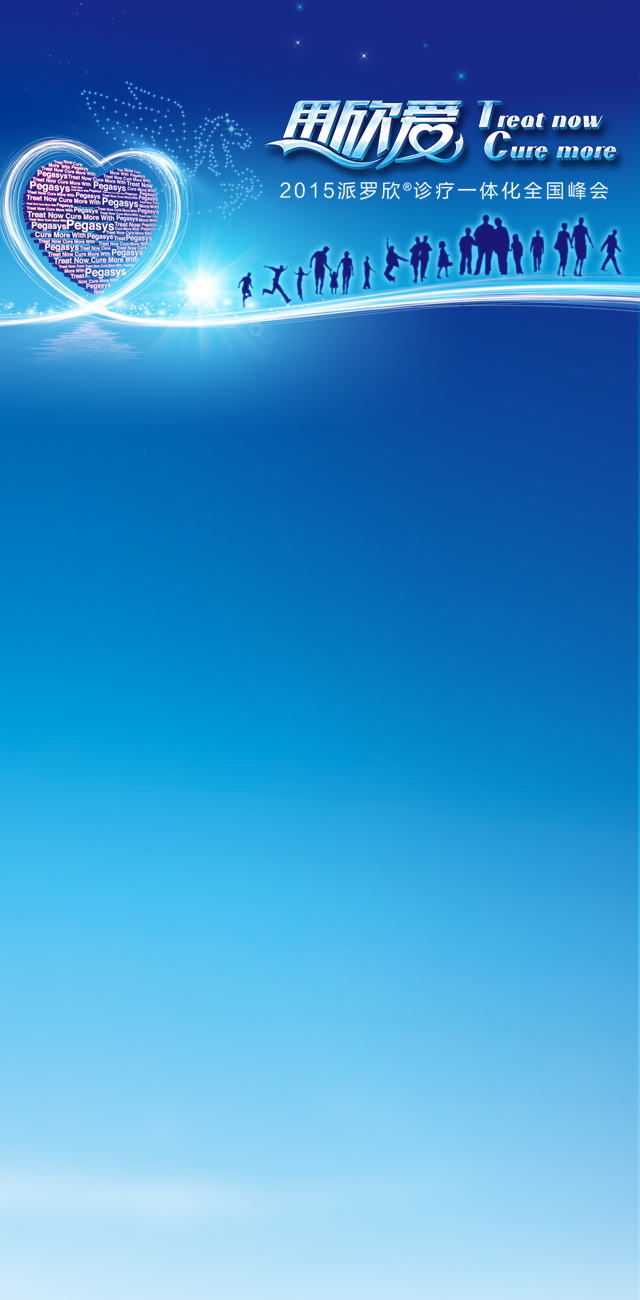
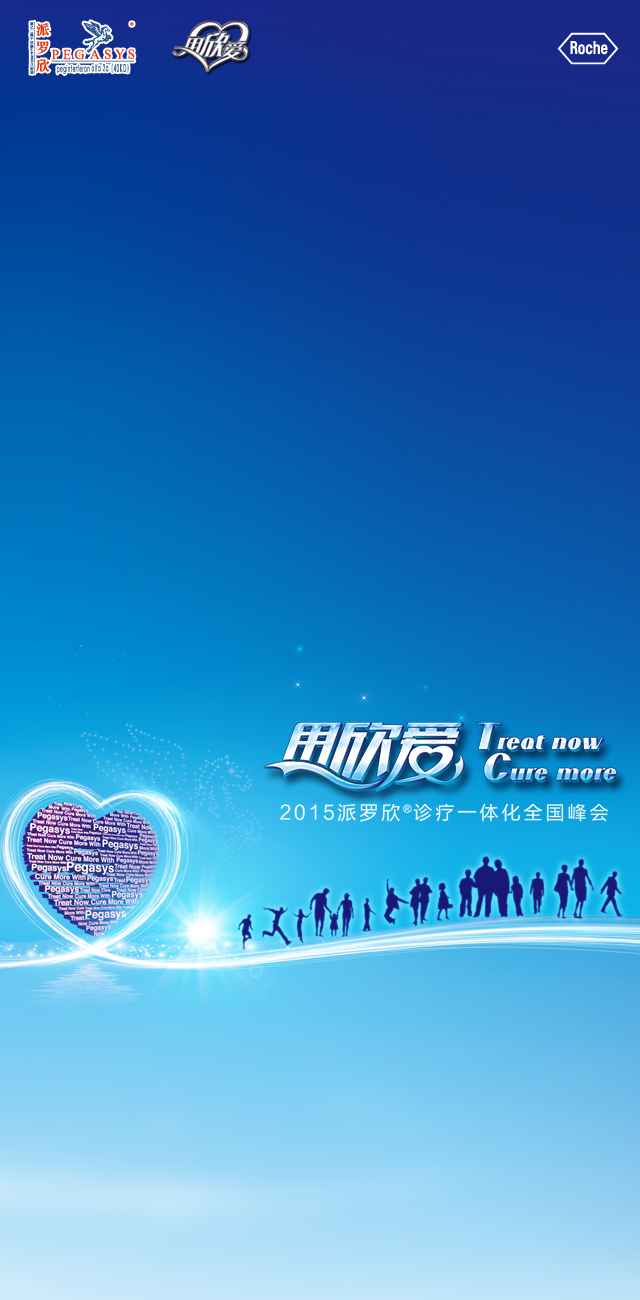
添加样式

diff --git a/app/assets/stylesheets/common.css.scss b/app/assets/stylesheets/common.css.scss
@@ -1,5 +1,3 @@
-@import "bootstrap-sprockets";
-@import "bootstrap";
 
 body { margin:0; padding:0; font-family:"微软雅黑"; }
 a {text-decoration: none;}
@@ -13,57 +11,49 @@ input { vertical-align:middle;}
 .Fleft{ float:left;}
 .Fright{ float:right;}
 
-
 /* 首页 */
-#BGw{ width:100%; background-image: image-url("indexBG.jpg"); height:900px;}
-.IndexA{ height:70px; width:100%; padding:10px; }
-.IndexA a{ height:70px; margin:0 10px; display:inline-block;}
-.IndexB{ width:100%; height:530px; margin:0 auto;}
+.bg-img{ width:100%; }
+.IndexA{ width:100%; position:relative; }
+.IndexB{ width:90%; height:50%; position:absolute; top:6%; left:5%;}
 .IndexB ul{ }
-.IndexB ul li{ height:220px; width:300px; float:left; margin-top:30px; text-align:center;}
-.IndexB ul li a{ height:220px; width:220px;}
+.IndexB ul li{ width:50%; float:left; margin-top:26px; text-align:center;}
+.IndexB ul li a img{ width:85%;}
 
 /* 欢迎词 */
-#Salutatory{ width:640px; background-image: image-url("salutatoryBG.png"); height:1300px;}
-.SalutatoryA{ height:940px; width:630px; background-image:image-url("login08.png"); margin:260px auto 0 auto; }
-.SalutatoryA p{ width:520px; margin:0 auto; padding-top:28px; color:#001870; font-size:27px; line-height:36x; }
+.SalutatoryB{ width: 100%; }
+.salu-bg { width: 100% }
 
 /* conference agenda */
-#div01{ width:640px; background-color:#f0f0f0; overflow:hidden;}
-.ConferenceT{ height:92px; width:100%; margin-bottom:12px; background:image-url("titlebg.png") repeat-x; font-size:37px; line-height:90px; text-align:center; color:#FFF;}
-.ConferenceF{ font-size:26px; line-height:130px; height:130px; width:210px; text-align:center; float:left;}
-.Orange26{ color:#fc5204;}
-.Blue26{ color:#6372b3;}
-.ConferenceG{ height:130px; width:430px; text-align:left; float:left; }
-.G1{ font-size:26px; color:#333333; line-height:70px;}
-.G2{ font-size:24px; color:#848484; line-height:60px;}
-.G3{ font-size:26px; color:#333333; line-height:130px;}
-.G4{ font-size:26px; color:#333333; line-height:43px;}
-.G5{ font-size:24px; color:#848484; line-height:43px;}
-.ConferenceH{ font-size:30px; height:90px; line-height:90px; width:640px; padding-left:16px; background-color:#f0f0f0; text-align:left; color:#c4c4c4;}
-.ConferenceH img{ margin:0 10px;}
+.agenda-bg { width: 100%; }
+#div01{ width:100%; background-color:#f0f0f0; overflow:hidden;}
+.ConferenceT{ width:100%; margin-bottom:8px; background-color:#006fbb; font-size:25px; text-align:center; color:#FFF; height:2em; line-height:2em;}
+.T-back{ width:22%; text-align:center; height:0%; }
+.T-back a{ font-size:19px; color:#cce3f2;}
 
 /* Topics */
-.ConferenceA{ height:130px; width:640px; border-bottom:1px solid #f0f0f0; background-color: #FFF; font-size:28px;}
+.ConferenceA{ height:80px; width:100%; border-bottom:1px solid #f0f0f0; background-color: #FFF; font-size:19px;}
 .ConferenceA span{ float:left;}
-.ConferenceB{ line-height:130px; color:#6372b3; width:120px; text-align:center;}
-.ConferenceC{ color:#333333; width:440px; text-align:left; line-height:130px; height:130px; }
-.ConferenceE{ color:#333333; width:440px; text-align:left; line-height:65px; height:130px; }
-.ConferenceD{ width:80px; text-align:center; height:50px; margin-top:40px; }
-.TopicsA{ height:440px; margin:20px auto; width:630px;}
-.TopicsB{ height:340px; width:598px; margin-left:29px; background-color:#ffffff; border:1px solid #dcdcdc;}
-.TopicsC{ height:320px; width:570px; background-image:image-url("TopM.png"); margin:10px 14px; cursor:pointer; }
-.TopicsC span{ line-height:80px; font-size:30px; color:#a9a9a9;}
-.TopicsD{ height:76px; width:286px; margin:40px auto;}
+.ConferenceB{ line-height:80px; color:#6372b3; width:16%; text-align:center;}
+.ConferenceC{ color:#333333; width:66%; text-align:left; line-height:40px;}
+.ConferenceE{ color:#333333; width:66%; text-align:left; line-height:26px;  }
+.ConferenceF{  color:#333333; width:66%; text-align:left; line-height:80px;  }
+.ConferenceD{ width:18%; text-align:center; height:40px; margin-top:14px; }
+.TopicsA{ height:320px; margin:20px auto; width:100%; background-color:#ffffff; border:1px solid #dcdcdc;}
+.TopicsA P{ font-size:24px; height:60px; line-height:60px; color:#666; text-align:center; width:100%; border-bottom:1px solid #dcdcdc;}
+.TopicsB{ height:240px; width:94%; margin:10px auto; background-color:#f4f4f4;}
+.TopicsB span{ line-height:60px; color:#a9a9a9; font-size:22px;}
+.TopicsC{ width:60%; margin:30px auto;}
+.TopicsC a img{ width:100%;}
 
 /* 专家简介 */
-.ExpertA{ height:170px; width:640px; margin-top:1px; background-color:#FFF; border-bottom:1px solid #f0f0f0;}
-.ExpertB{ height:122px; width:122px; position:relative; float:left; margin:24px 22px; }
-.ExpertC{ height:122px; width:122px; position:absolute; top:0; left:0; background-image:image-url("HeadT.png"); }
-.ExpertD{ height:170px; width:415px; float:left; margin-left:4px; }
-.ExpertE{ font-size:30px; color:#333; height:84px; line-height:84px; border-bottom:1px solid #f0f0f0; width:400px;}
-.ExpertE span{ font-size:26px; margin:0 15px;}
-.font25{ font-size:25px; color:#8e99c6;}
-.ExpertF{ font-size:26px; color:#9a9a9a; height:85px; line-height:85px; width:400px;}
-.ExpertG{ float:left; width:30px; margin-top:62px; margin-left:10px;}
+.ExpertA{ height:80px; width:100%; margin-top:1px; background-color:#FFF; border-bottom:1px solid #f0f0f0;}
+.ExpertB{ width:15%; float:left; margin:13px 10px; border-radius:10px; }
+.ExpertB img{ border-radius:10px; width:100%; border:1px solid #f0f0f0;}
+.ExpertD{ height:80px; width:65%; float:left; margin-left:4px; }
+.ExpertE{ font-size:20px; color:#333; height:40px; line-height:40px; border-bottom:1px solid #f0f0f0; }
+.ExpertE span{ font-size:16px; margin:0 2px; color:#8e99c6;}
+.ExpertF{ font-size:16px; color:#9a9a9a; height:40px; line-height:40px; overflow:hidden; white-space: nowrap;}
+.ExpertG{ float:left; margin-top:18px; margin-left:4px;}
 .ExpertG a img{ height:44px; width:22px;}
+.ExpertH{ clear:both; background-color:#FFF; width:100%; color:#333; border-top:1px solid #f0f0f0;}
+.ExpertH p{ width:94%; margin:10px auto; color:#666666; font-size:18px; line-height:30px; padding:8px 0; }
